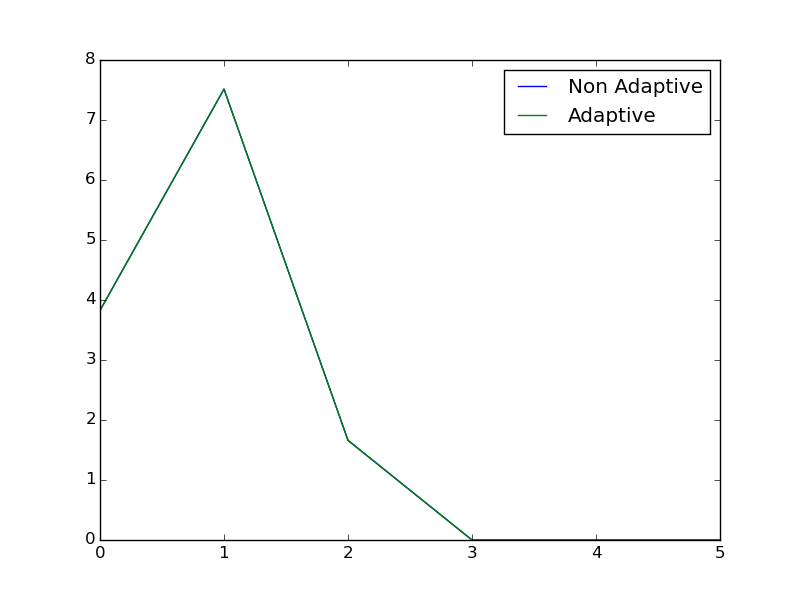
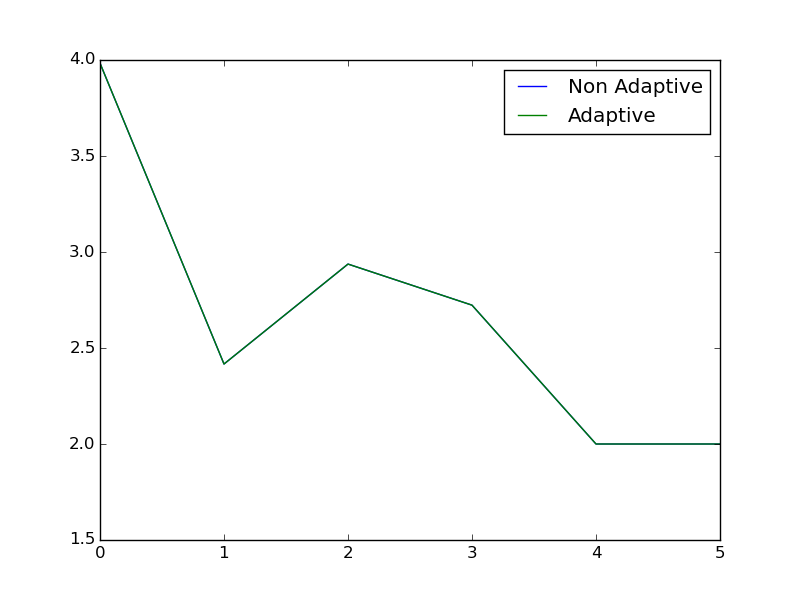
fifth

diff --git a/SparseGrid/SparseGridCode/growth_model/serial_adap/compare_method.py b/SparseGrid/SparseGridCode/growth_model/serial_adap/compare_method.py
@@ -41,7 +41,8 @@ def adap(f, c, w, iDim, iOut, iDepth, refinement_level):
     
 
 def compare_method(f, c, w, iDim, iOut, iDepth, refinement_level):
-    aPoints = np.random.randint(-1, 1, (1000, iDim))
+    aPoints = np.random.uniform(-10, 10, (1000, iDim))
+    print(aPoints)
     non_adap_error = []
     adap_error = []
     error_list_nonadap = []
